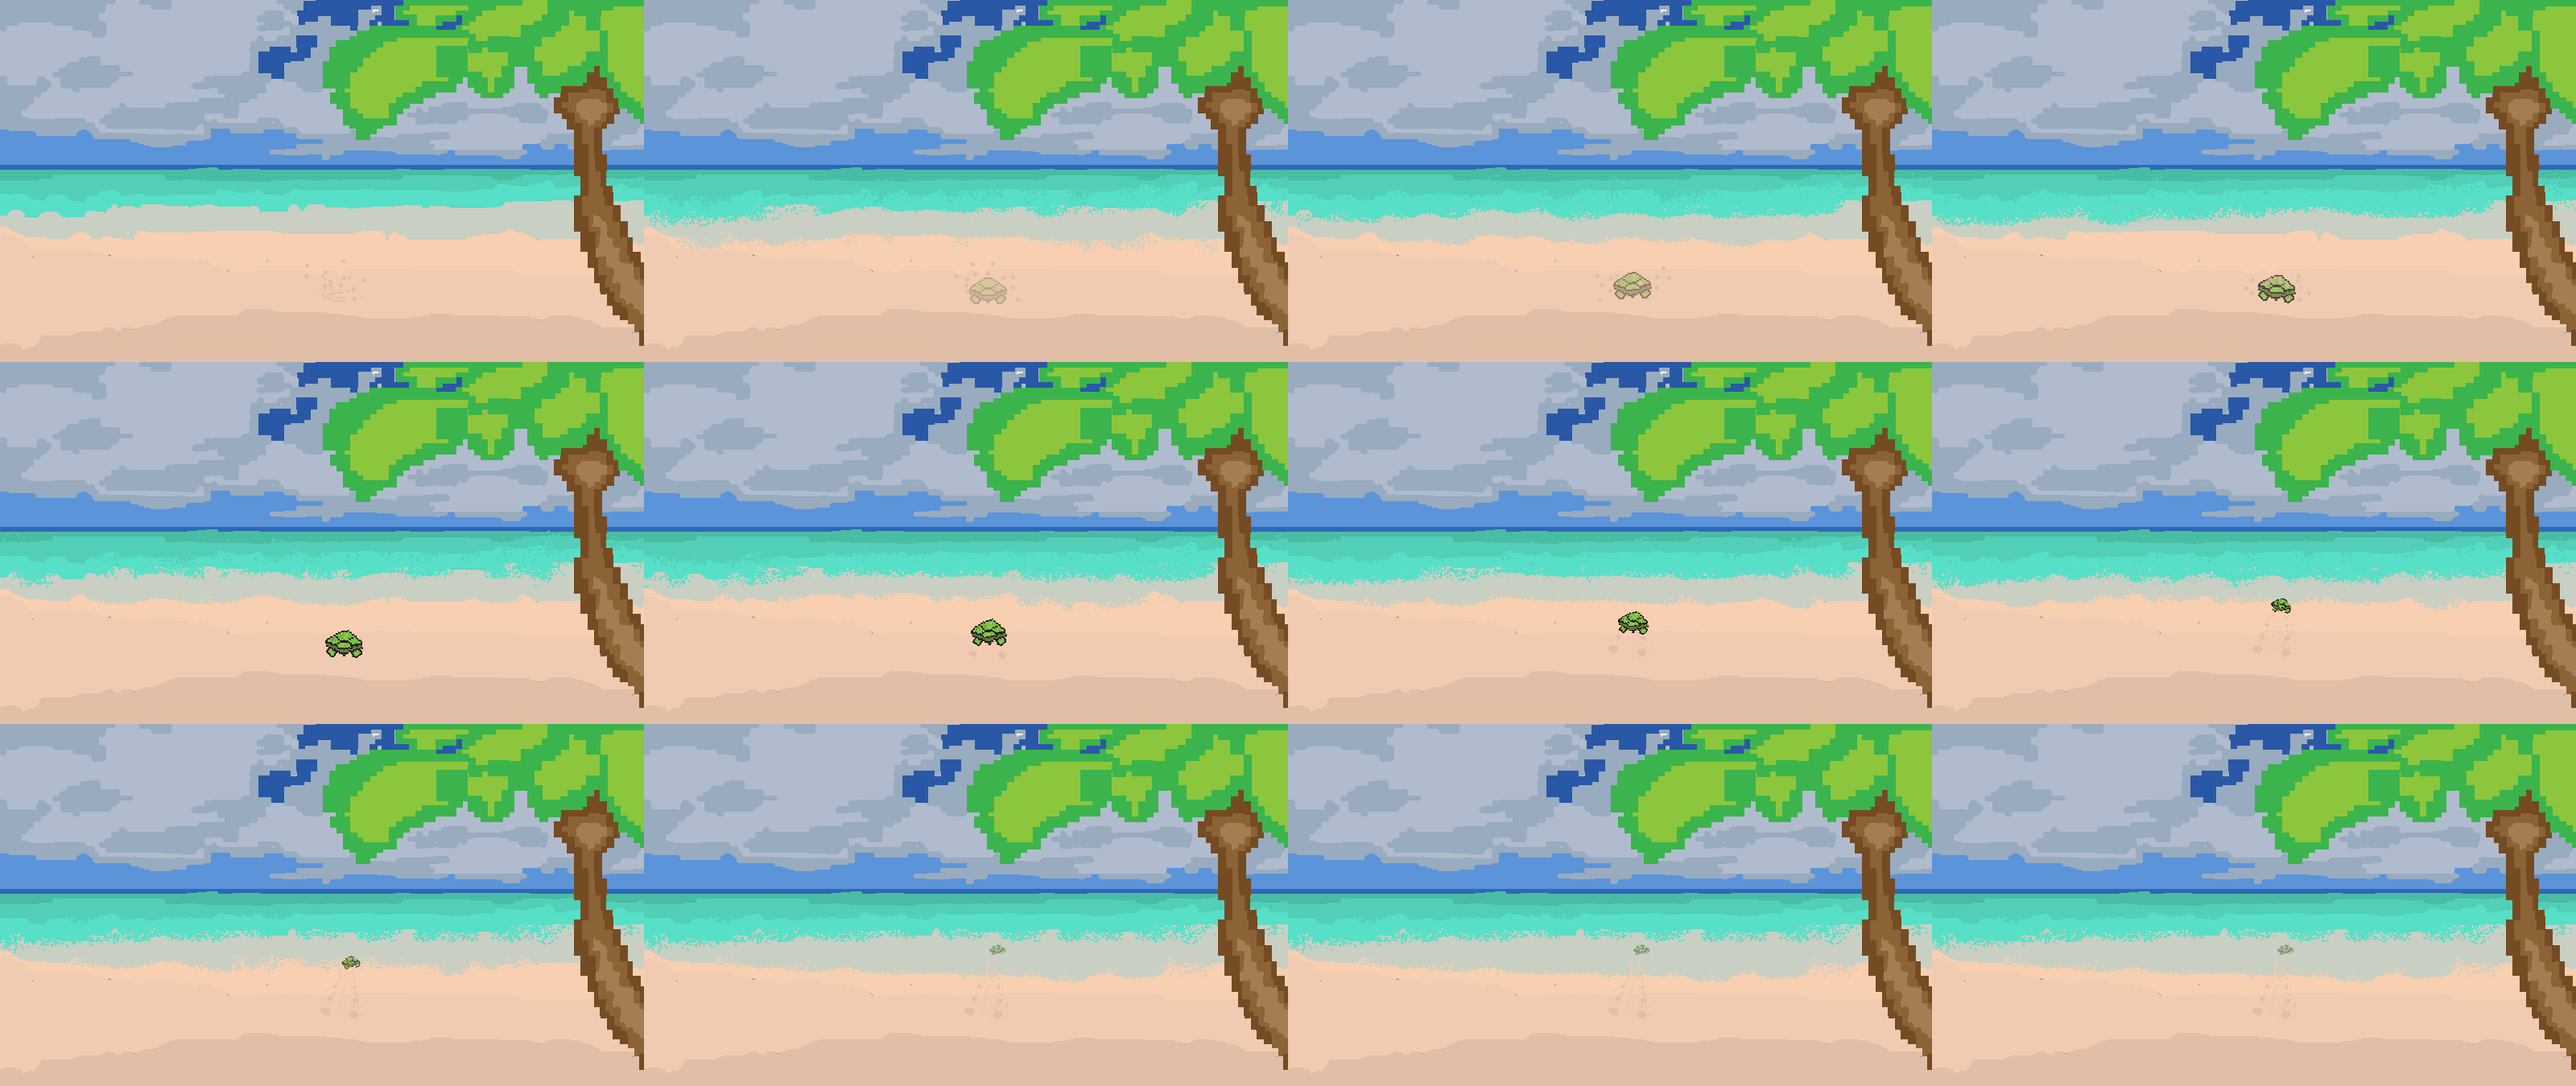
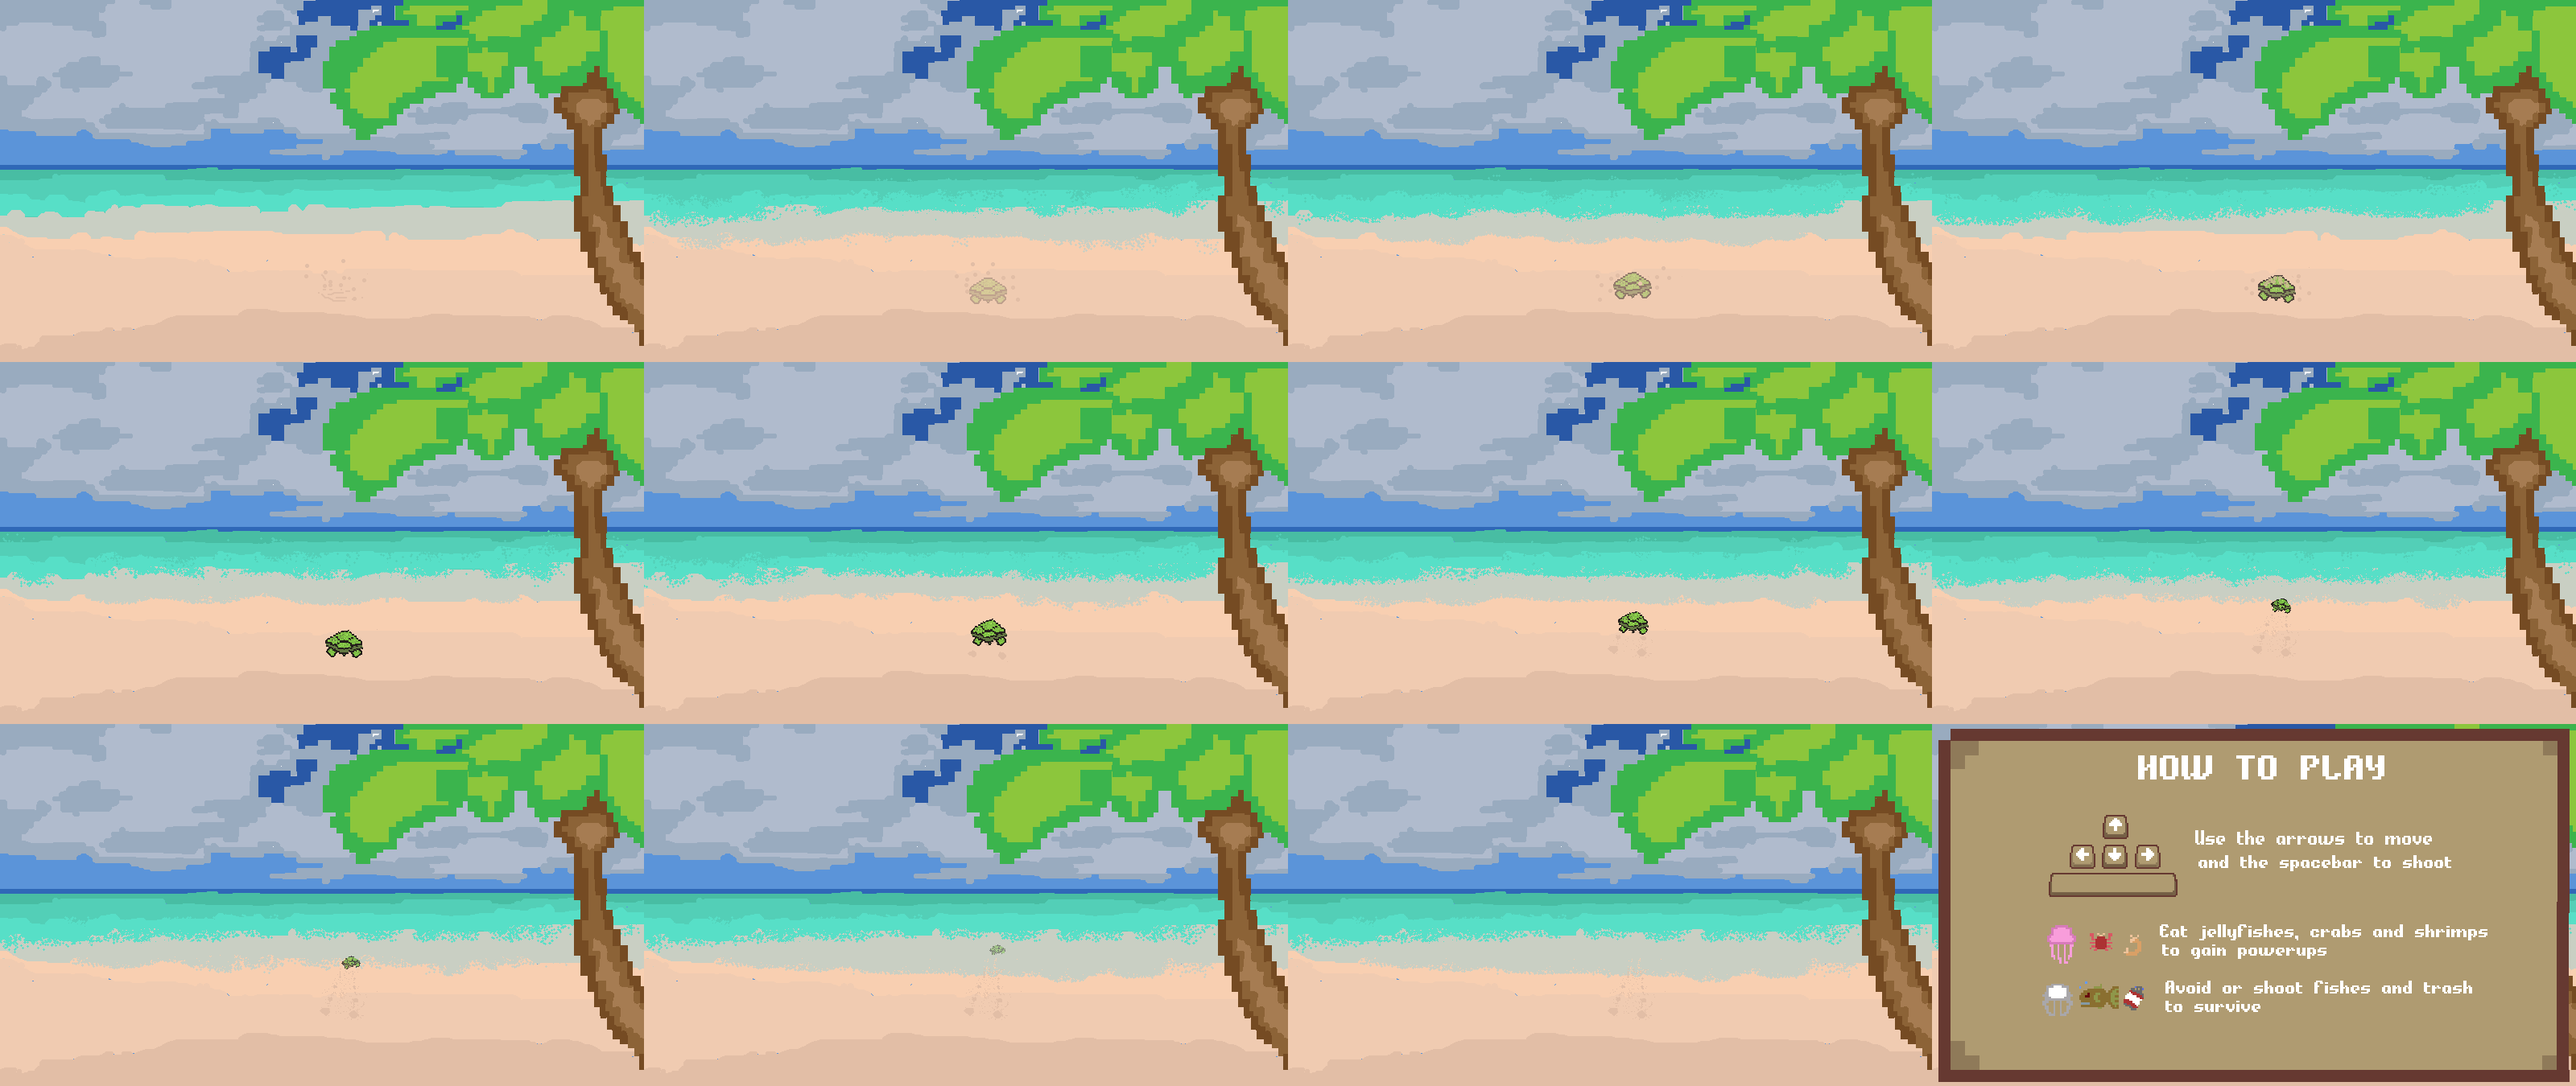
Add files via upload

Changed region(s): [[0.75, 0.6533, 1.0, 1.0]]

diff --git a/Main Menu/main_menu.py b/Main Menu/main_menu.py
@@ -1,8 +1,5 @@
 import math, random, sys
 import pygame
-#from stup_screen import *
-#from menu_animation import main_menu_animation
-#from button import *
 from pygame.locals import *
 
 class main_menu_animation:
@@ -22,7 +19,7 @@ class main_menu_animation:
 		self.handle = list([
 			(0, 0), (-hw, 0), (-w, 0),
 			(0, -hh), (-hw, -hh), (-w, -hh),
-			(0, -h), (-hw, -h), (-w, -h),])	
+			(0, -h), (-hw, -h), (-w, -h),])
 
 	def draw(self, surface, cellIndex, x, y, handle = 0):
 		surface.blit(self.sheet, (x + self.handle[handle][0], y + self.handle[handle][1]), self.cells[cellIndex])
@@ -34,20 +31,16 @@ class button:
         self.cols = cols
         self.rows = rows
         self.totalCellCount = cols * rows
-		
         self.rect = self.sheet.get_rect()
         w = self.cellWidth = int(self.rect.width / cols)
         h = self.cellHeight = int(self.rect.height / rows)
         hw, hh = self.cellCenter = (int(w / 2), int(h / 2))
         
         self.cells = list([(index % cols * w, int(index / cols) * h, w, h) for index in range(self.totalCellCount)])
-        self.handle = list([
-			(0, 0), (-hw, 0), (-w, 0),
-			(0, -hh), (-hw, -hh), (-w, -hh),
-			(0, -h), (-hw, -h), (-w, -h),])
+        self.handle = list([(0, 0), (-hw, 0), (-w, 0),(0, -hh), (-hw, -hh), (-w, -hh),(0, -h), (-hw, -h), (-w, -h),])
             
     def draw(self, surface, cellIndex, x, y, handle = 0):
-	    surface.blit(self.sheet, (x + self.handle[handle][0], y + self.handle[handle][1]), self.cells[cellIndex])
+        surface.blit(self.sheet, (x + self.handle[handle][0], y + self.handle[handle][1]), self.cells[cellIndex])
 
    
 # exit the program
@@ -81,10 +74,11 @@ def menu():
         s.draw(DS, index % s.totalCellCount, HW, HH, CENTER_HANDLE)
         if index<=9:
             index += 1
-        CLOCK.tick(FPS)
+            CLOCK.tick(FPS)
 
         start_but = button("start_button.png", 2, 1)
         howto_but = button("howto_button.png",2,1)
+        exit_but = button("exit_button.png",2,1)
         click = pygame.mouse.get_pressed()
         mouse = pygame.mouse.get_pos()
         x=HW-200
@@ -92,37 +86,30 @@ def menu():
         if index==10:
             if 280 > mouse[0] > 120 and 360 > mouse[1] > 300:
                 start_but.draw(DS, 1 % s.totalCellCount, x, y, CENTER_HANDLE)
-                if click[0] == 1: #Colocar and != action
+                if click[0] == 1:
                     print("OK!") #ALTERAR        
             else:
                 start_but.draw(DS, 0 % s.totalCellCount, x,y, CENTER_HANDLE)
             if 480 > mouse[0] > 320 and 360 > mouse[1] > 300:
                 howto_but.draw(DS, 1 % s.totalCellCount, 200+x, y, CENTER_HANDLE)
-                if click[0] == 1: #Colocar and != action
-                    print("OK!") #ALTERAR        
+                if click[0] == 1:
+                    index = 11
             else:
                 howto_but.draw(DS, 0 % s.totalCellCount,200+ x,y, CENTER_HANDLE)
+        if index==11:
+            if 777 > mouse[0] > 752 and 43 > mouse[1] > 18:
+                exit_but.draw(DS, 1 % s.totalCellCount, 764, 31, CENTER_HANDLE)
+                if click[0] == 1:
+                    index = 10
+            else:
+                exit_but.draw(DS, 0 % s.totalCellCount,  764, 31, CENTER_HANDLE)
         pygame.display.update()
 
 
-
-# define display surface			
+# define display surface
 W, H = 800, 450
 HW, HH = W / 2, H / 2
 AREA = W * H
 
-# initialise display
 pygame.init()
-
-# main loop
-
-#while True:
-#	events()
-#	s.draw(DS, index % s.totalCellCount, HW, HH, CENTER_HANDLE)
-#	if index<=9:
-#		index += 1
-#	pygame.display.update()
-#	CLOCK.tick(FPS)
-#	DS.fill(BLACK)
-
 menu()

diff --git a/Main Menu/spritesheets3.py b/Main Menu/spritesheets3.py
@@ -59,8 +59,6 @@ while True:
 	s.draw(DS, index % s.totalCellCount, HW, HH, CENTER_HANDLE)
 	index += 1
 	
-	#pygame.draw.circle(DS, WHITE, (int(HW), int(HH)), 2, 0)
-	
 	pygame.display.update()
 	CLOCK.tick(FPS)
 	DS.fill(BLACK)
